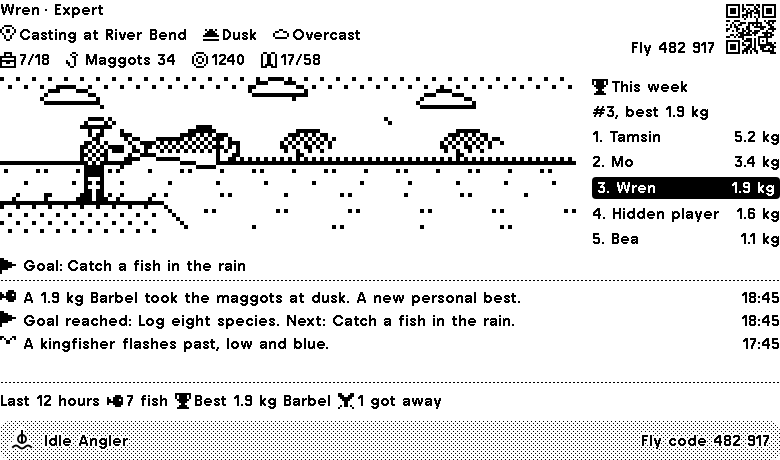
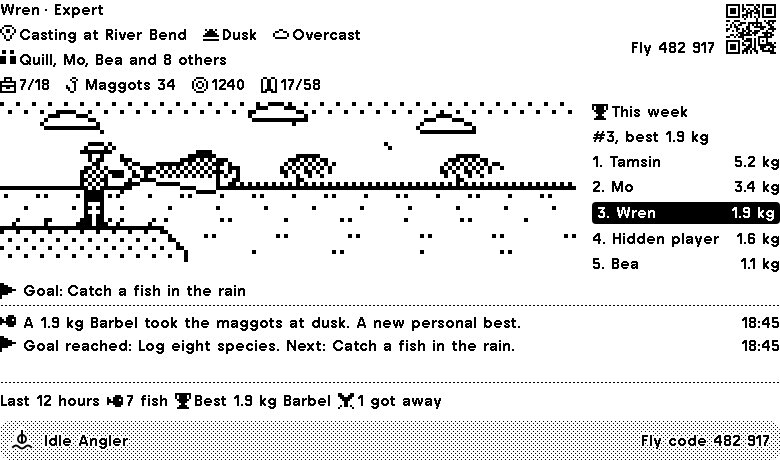
Idle Angler listing candidate and game page sample redrawn at template v23 from the listing preview state (Wren at River Bend, dusk, the fly code and the week's board).

diff --git a/docs/release/idle-angler-review-package.md b/docs/release/idle-angler-review-package.md
@@ -9,7 +9,7 @@
 | Name | Idle Angler | Unchanged |
 | Description (≤50) | A fishing game that plays itself on your TRMNL (46 characters, saved 2026-10-19) | Done |
 | Icon | Saved ([`idle-angler-plugin-icon.png`](../assets/idle-angler-plugin-icon.png), 512×512) | Unchanged |
-| Featured image | Regenerated 2026-10-20 at template v19 from setting 506054 (blob 19687629): night at the Millpond, "Barry the dev · Expert", 12 of 58 species, goal Fill ten orders, best 3.2 kg rainbow trout | Done. The fictional candidate from the `listing` preview state (content v6, template v19) is [`idle-angler-featured.png`](../assets/idle-angler-featured.png), also the game page's sample |
+| Featured image | Regenerated 2026-10-20 at template v19 from setting 506054 (blob 19687629); to regenerate again after the launch reset, press Generate marketplace preview on trmnl.com/plugin_settings/506054/edit once the restarted angler has a catch or two | The fictional candidate from the `listing` preview state (content v6, template v23, redrawn 2026-11-08) is [`idle-angler-featured.png`](../assets/idle-angler-featured.png), also the game page's sample |
 | Categories | games, entertainment | Unchanged |
 | Refresh | Every 15 minutes | Unchanged |
 | Installation URL | `https://trmnlgames.com/connect/trmnl/idle-angler/install` | Unchanged |
